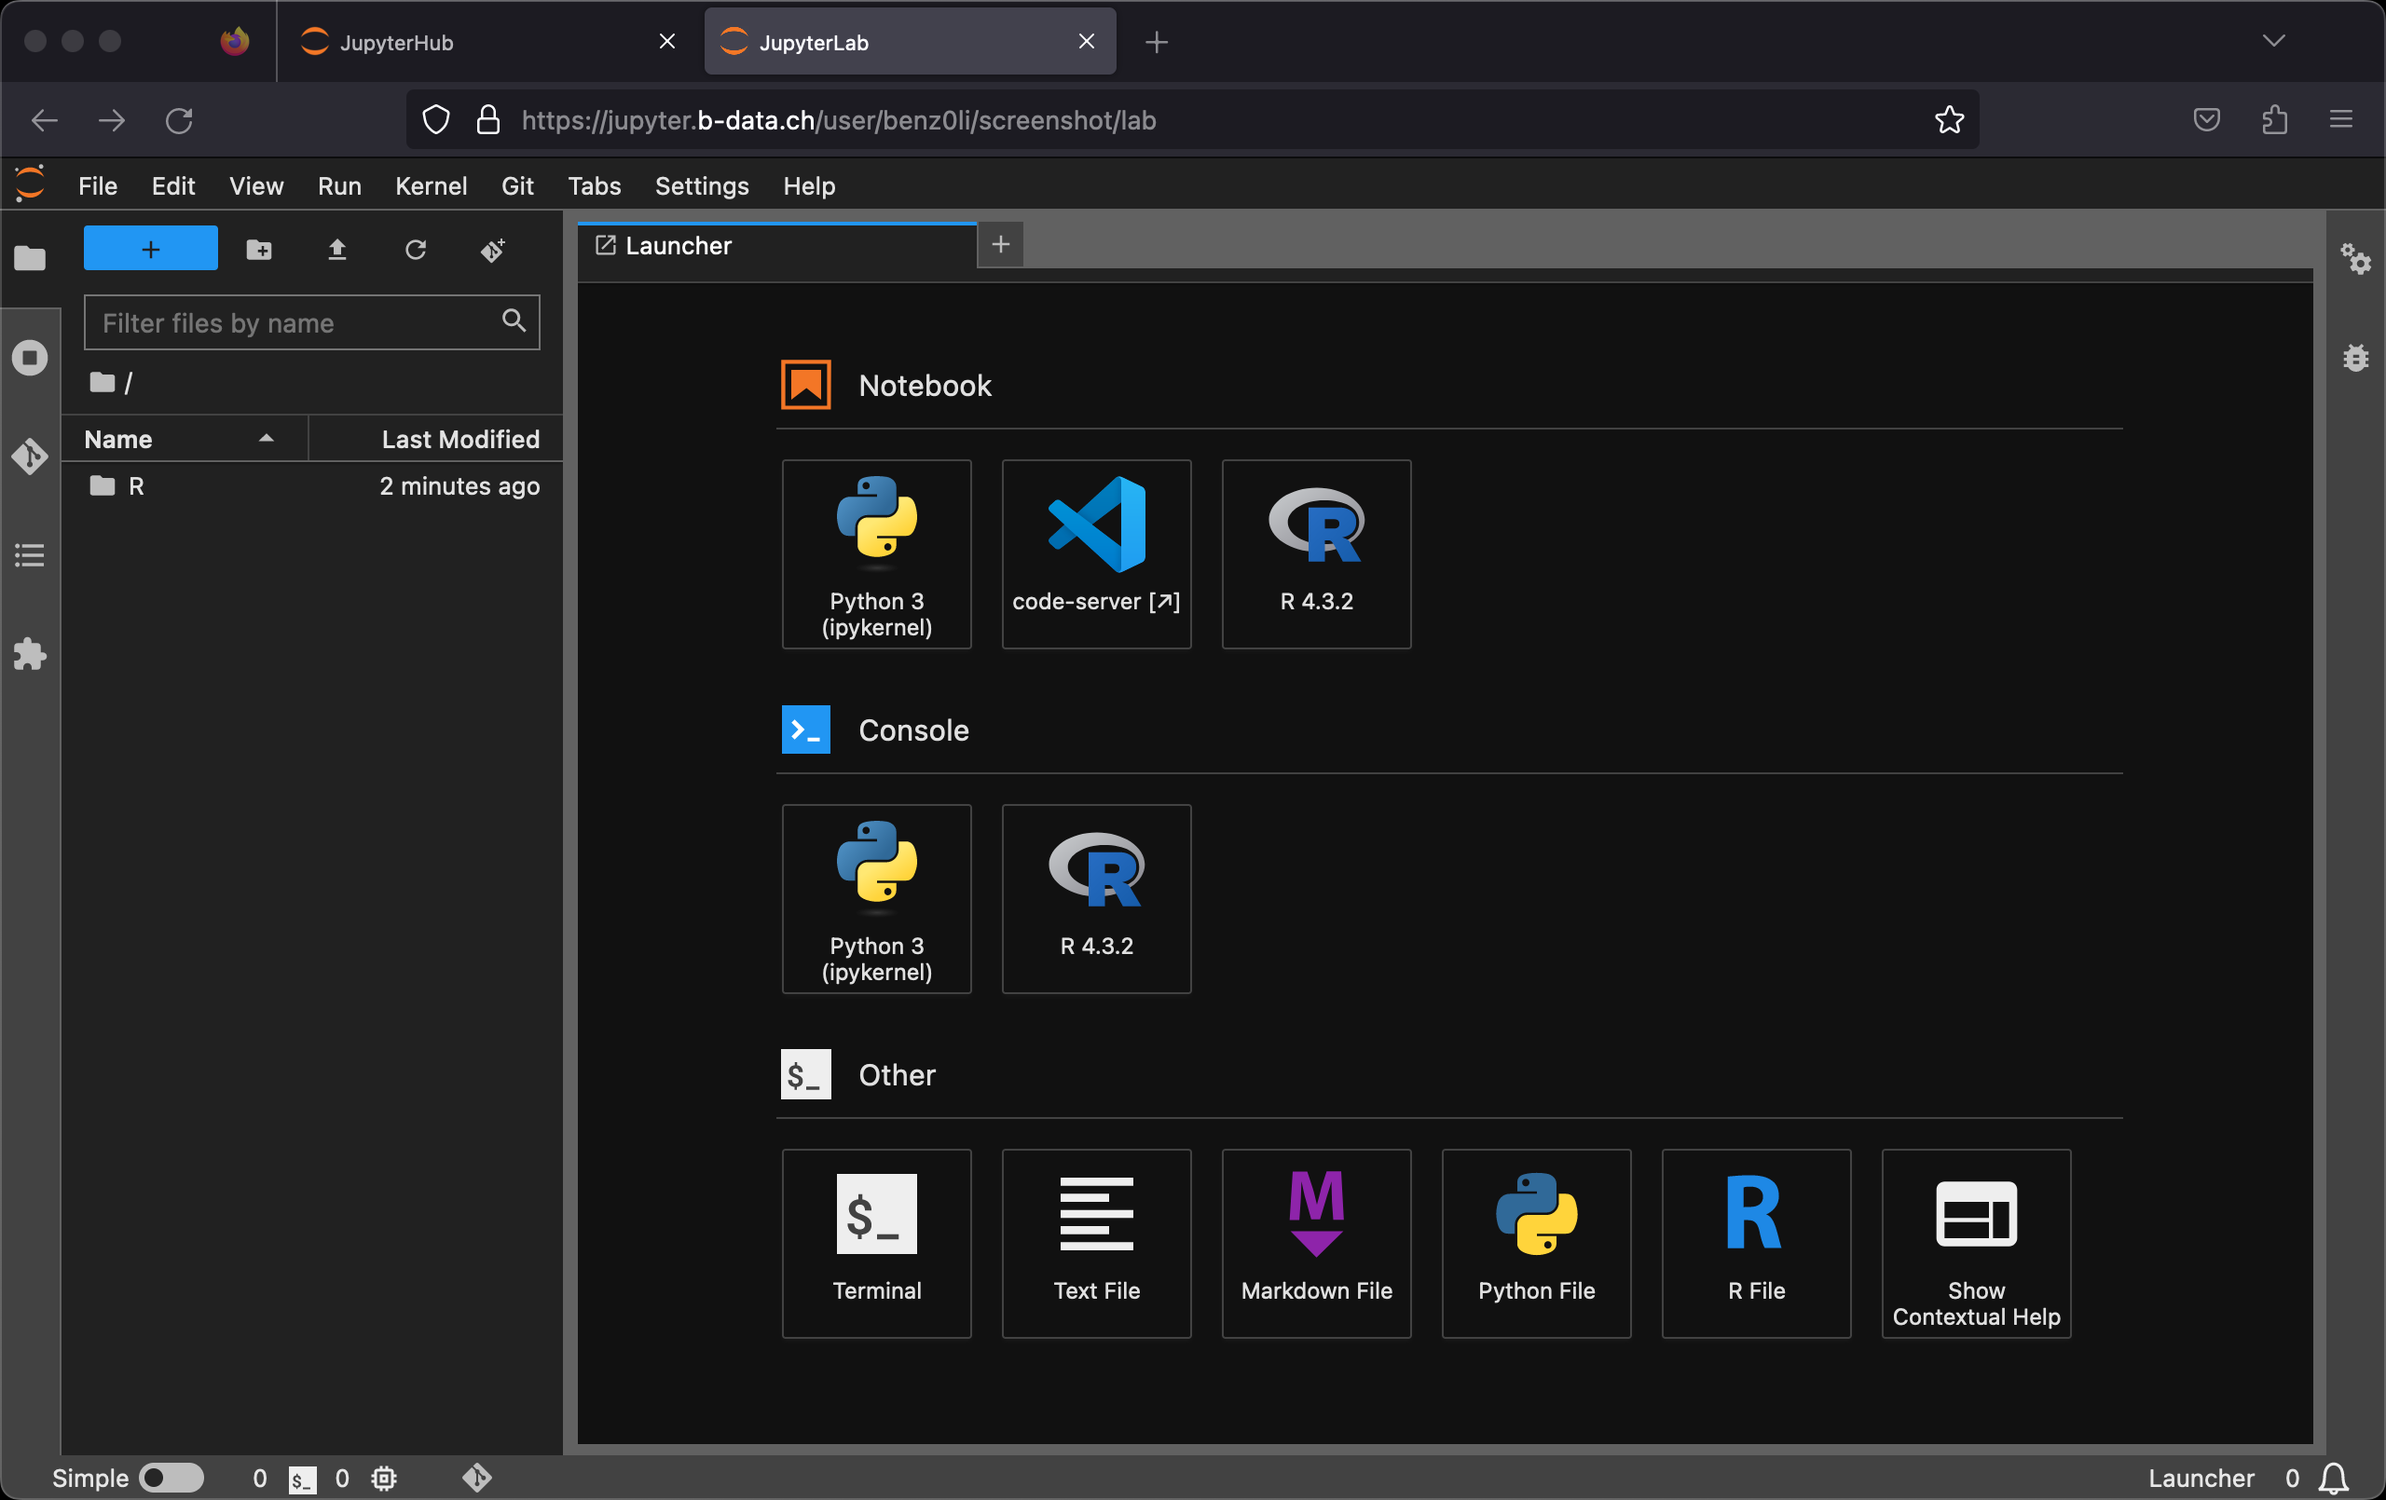
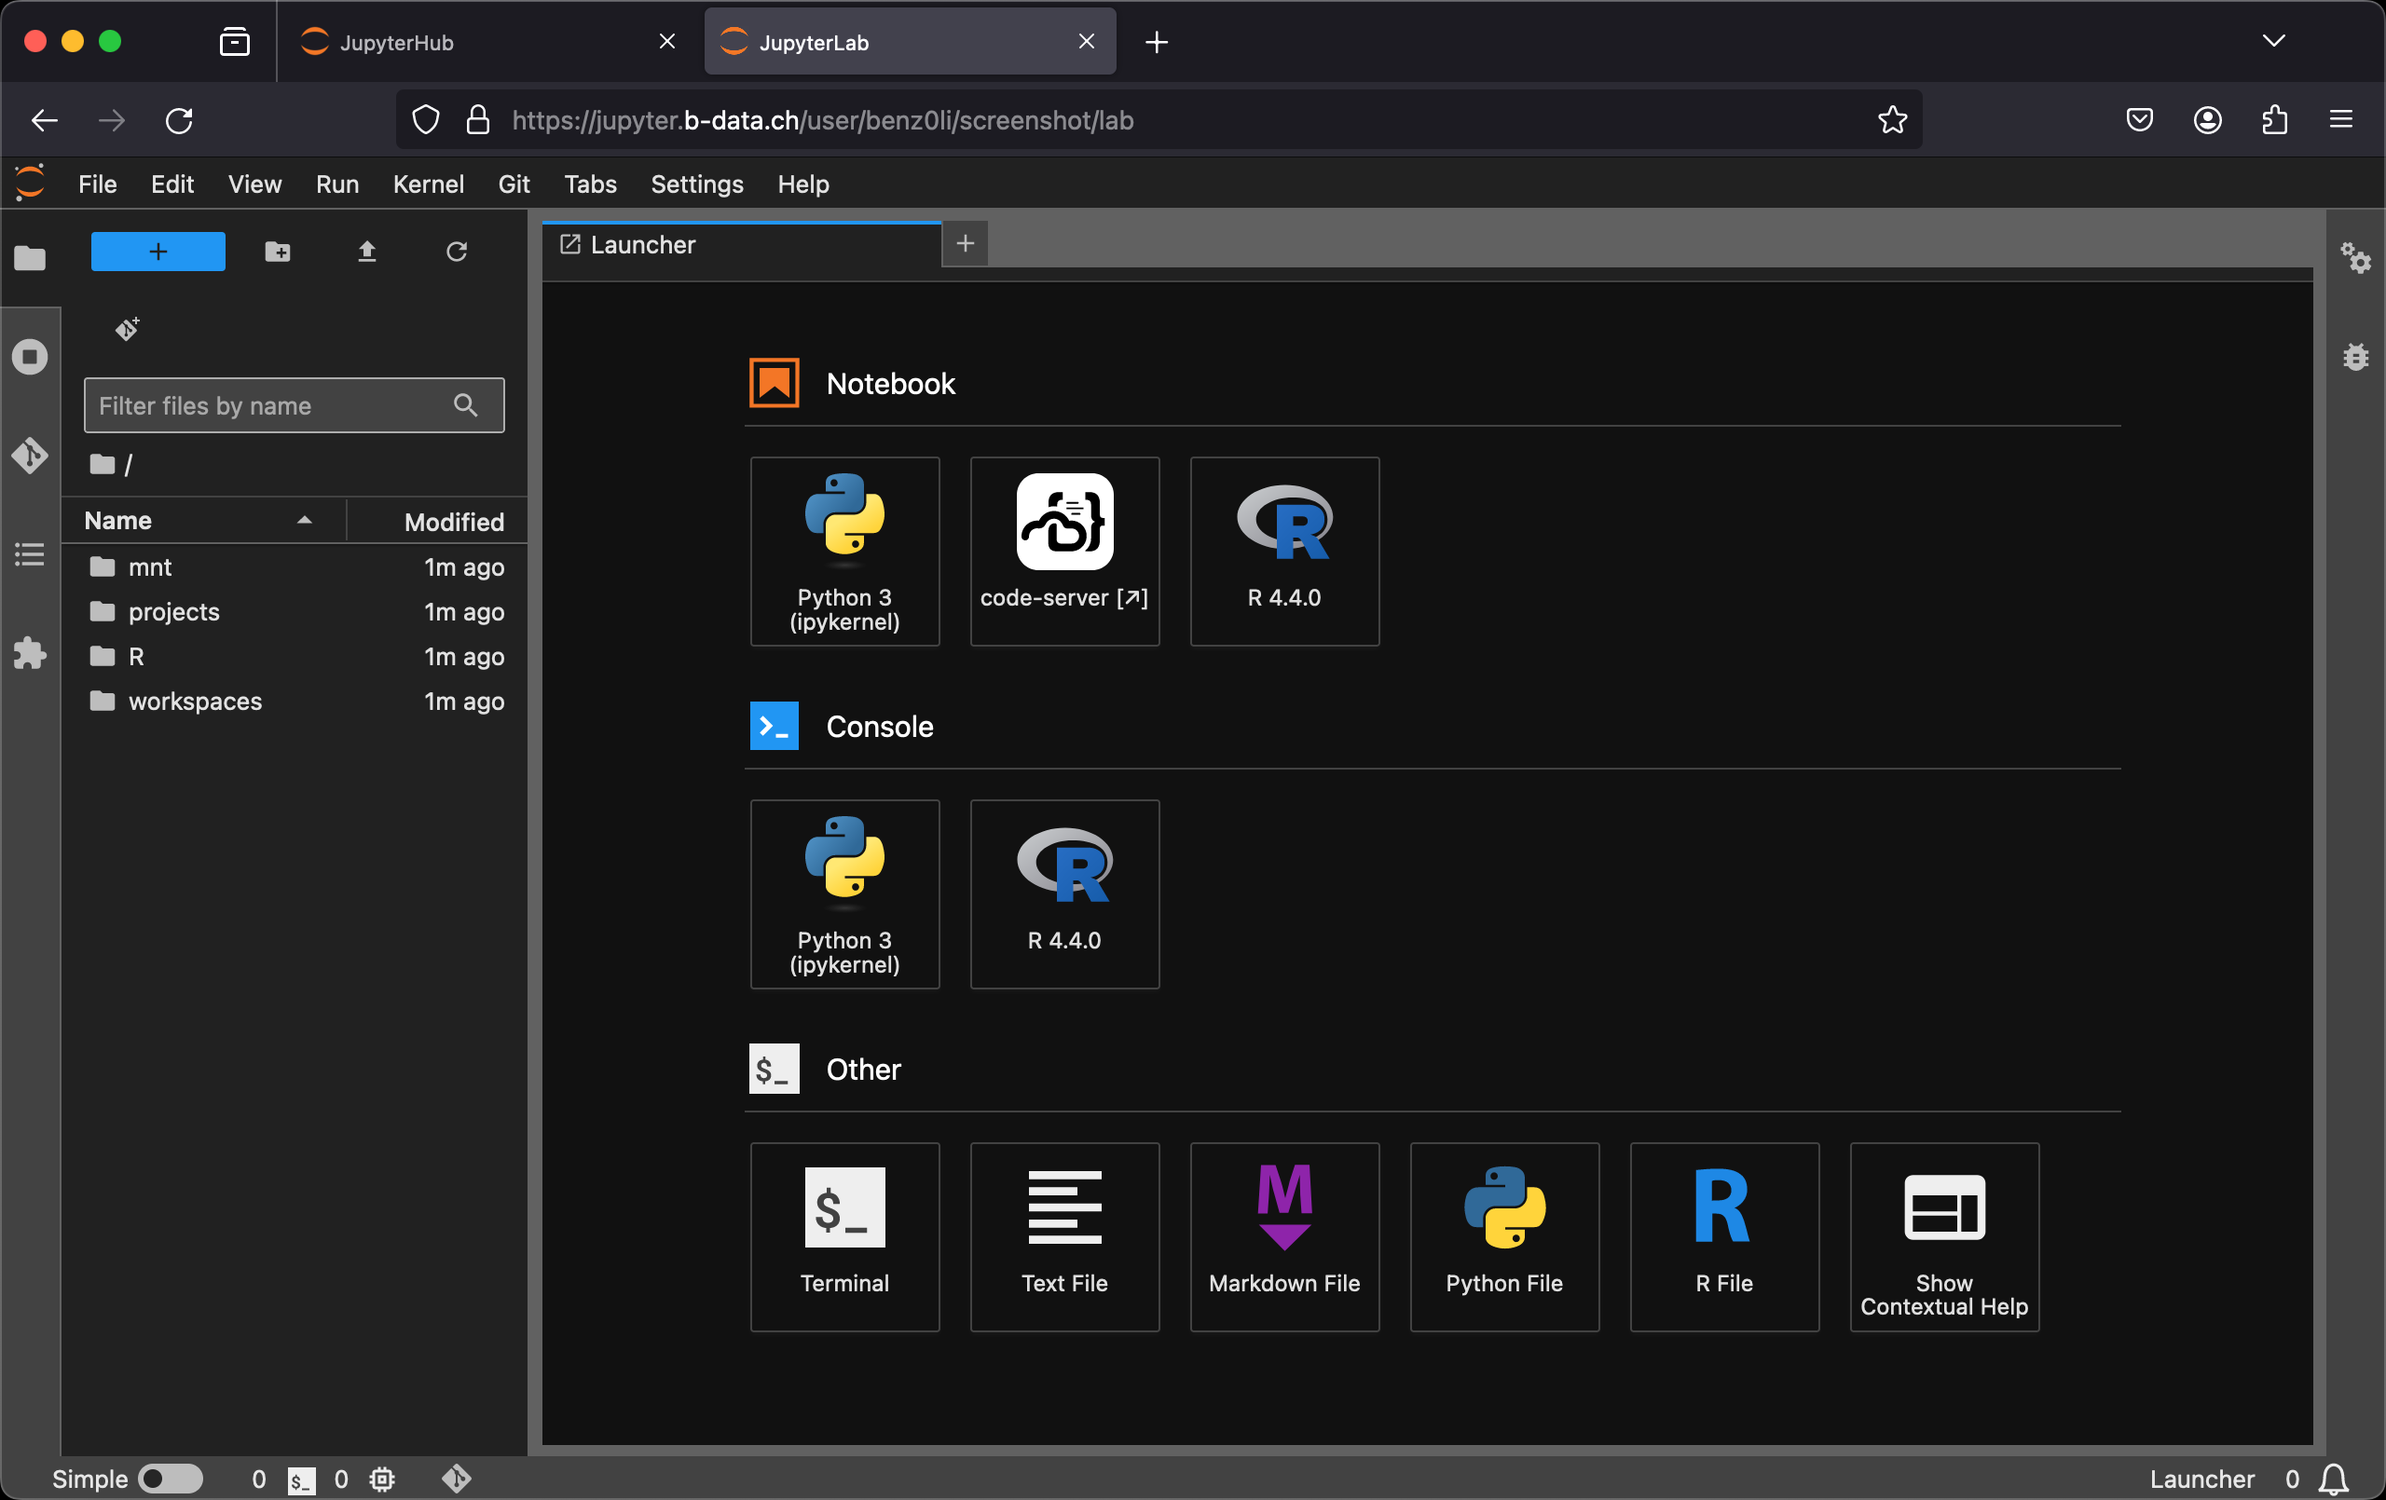
Update README.md
- Update screenshot

diff --git a/README.md b/README.md
@@ -32,8 +32,7 @@ base → tidyverse → verse → geospatial → qgisprocess
 
 * **JupyterLab**: A web-based interactive development environment for Jupyter
    notebooks, code, and data. The images include
-  * **code-server**: VS Code in the browser without MS
-    branding/telemetry/licensing.
+  * **code-server**: `Code - OSS` in the browser.
   * **Git**: A distributed version-control system for tracking changes in source
     code.
   * **Git LFS**: A Git extension for versioning large files.
@@ -70,7 +69,7 @@ The following extensions are pre-installed for **code-server**:
   :information_source: devtools subtags
 * [Docker](https://open-vsx.org/extension/ms-azuretools/vscode-docker)  
   :information_source: docker subtags
-* [EditorConfig for VS Code](https://open-vsx.org/extension/EditorConfig/EditorConfig)
+* [EditorConfig](https://open-vsx.org/extension/EditorConfig/EditorConfig)
   (4.3.0+)
 * [ESLint](https://open-vsx.org/extension/dbaeumer/vscode-eslint)  
   :information_source: devtools subtags
@@ -297,7 +296,7 @@ docker run -it --rm \
    :information_source: CUDA-enabled images are Ubuntu-based.
 1. IDE: [code-server](https://github.com/coder/code-server) instead of
    [RStudio](https://github.com/rstudio/rstudio)  
-   :information_source: code-server = VS Code in the browser.
+   :information_source: code-server = `Code - OSS` in the browser.
 1. Just Python – no [Conda](https://github.com/conda/conda) /
    [Mamba](https://github.com/mamba-org/mamba)
 
@@ -305,7 +304,8 @@ See [Notes](NOTES.md) for tweaks, settings, etc.
 
 ## Contributing
 
-PRs accepted.
+PRs accepted. Please submit to the
+[GitLab repository](https://gitlab.com/b-data/jupyterlab/r-project/docker-stack).
 
 This project follows the
 [Contributor Covenant](https://www.contributor-covenant.org)
